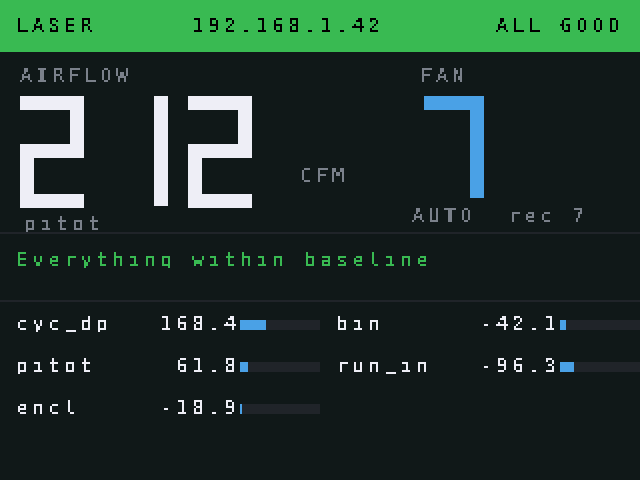
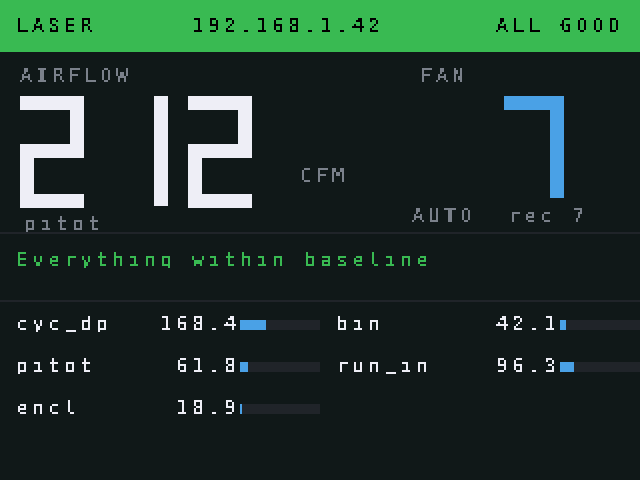
Fix stale digits on the box display: fan level 7 showed as 70
Screen.fan() built its string with "%d", so it was one character for level 7 and
two for level 10. seg7 clears only as wide as the string it is handed -
(digit_w + gap) * len(s) - so going from 10 to 7 repainted the first cell and
left the old second digit standing. The screen read 70. Dropping to no level at
all was worse: "-" is one character, so 10 became -0.

Both now use a fixed-width, right-aligned string, which is why flow() has never
had the problem - it uses "%3d", and "---" for no reading is the same width.

Four new host tests, and they check the glass rather than the call: each renders
a sequence through the node simulator's virtual panel, which decodes the driver's
real SPI command stream into a framebuffer, then compares it byte for byte
against the same final value drawn on a fresh screen. Any pixel left behind by a
previous value fails. The two fan cases fail against the old format with 1904
bytes differing; the two flow cases guard the padding that already protects it.

39 -> 43 firmware tests. Doc screenshots regenerated.

Claude-Session: https://claude.ai/code/session_01RmHCwUFzxLedq2a6PYLQZb

Changed region(s): [[0.6562, 0.1875, 0.9062, 0.4062]]

diff --git a/firmware/micropython/tests/test_firmware.py b/firmware/micropython/tests/test_firmware.py
@@ -263,6 +263,48 @@ check("seg7 '8' lights all seven", lit_segments("8") == {0, 1, 2, 3, 4, 5, 6},
       lit_segments("8"))
 check("seg7 '-' is the middle bar alone", lit_segments("-") == {3}, lit_segments("-"))
 
+# ---------------------------------------------------------------- screen redraws
+# These use the node simulator's virtual panel, which decodes the driver's real SPI
+# command stream into a framebuffer, so they check what the glass would show.
+print("Screen redraws")
+sys.path.insert(0, str(ROOT / "tools"))
+import simulate_node as SIM                          # noqa: E402
+
+
+def screen_after(steps, node="fan"):
+    """Framebuffer after applying a list of (method, args) to a fresh Screen."""
+    panel = SIM.VirtualPanel()
+    tft = SIM.st7789.ST7789(panel, panel.cs, panel.dc, rotation=1)
+    tft.init()
+    scr = SIM.display_ui.Screen(tft, node)
+    scr.layout()
+    for name, args in steps:
+        getattr(scr, name)(*args)
+    return bytes(panel.fb)
+
+
+# A value that needs fewer digits than the one before it must not leave the old
+# ones on screen: going from fan level 10 to 7 used to display "70".
+shrunk = screen_after([("fan", (10, "auto", None)), ("fan", (7, "auto", None))])
+clean = screen_after([("fan", (7, "auto", None))])
+check("fan 10 -> 7 leaves no stale digit", shrunk == clean,
+      "%d bytes differ" % sum(1 for a, b in zip(shrunk, clean) if a != b))
+
+shrunk = screen_after([("fan", (10, "auto", None)), ("fan", (None, "", None))])
+clean = screen_after([("fan", (None, "", None))])
+check("fan 10 -> no level leaves no stale digit", shrunk == clean,
+      "%d bytes differ" % sum(1 for a, b in zip(shrunk, clean) if a != b))
+
+shrunk = screen_after([("flow", (212, "pitot")), ("flow", (96, "pitot"))], node="laser")
+clean = screen_after([("flow", (96, "pitot"))], node="laser")
+check("flow 212 -> 96 leaves no stale digit", shrunk == clean,
+      "%d bytes differ" % sum(1 for a, b in zip(shrunk, clean) if a != b))
+
+shrunk = screen_after([("flow", (212, "pitot")), ("flow", (None, "no PC link"))], node="laser")
+clean = screen_after([("flow", (None, "no PC link"))], node="laser")
+check("flow 212 -> --- leaves no stale digit", shrunk == clean,
+      "%d bytes differ" % sum(1 for a, b in zip(shrunk, clean) if a != b))
+
 print()
 print(f"{passed} passed, {failed} failed")
 sys.exit(0 if failed == 0 else 1)

diff --git a/firmware/micropython/lib/lumosair/display_ui.py b/firmware/micropython/lib/lumosair/display_ui.py
@@ -83,7 +83,10 @@ class Screen:
 
     def fan(self, level, mode, recommended):
         t = self.tft
-        s = "-" if level is None else "%d" % level
+        # Fixed width, right-aligned. seg7 only clears as wide as the string it is
+        # given, so dropping from "10" to "7" left the old second digit standing and
+        # the screen read 70. flow() is safe for the same reason: it uses "%3d".
+        s = " -" if level is None else "%2d" % level
         if self._changed("fan", s):
             t.seg7(s, 212, 48, digit_w=30, digit_h=52, thick=7, color=C.BLUE, bg=C.DARK)
         line = "%s%s" % ((mode or "").upper(),
